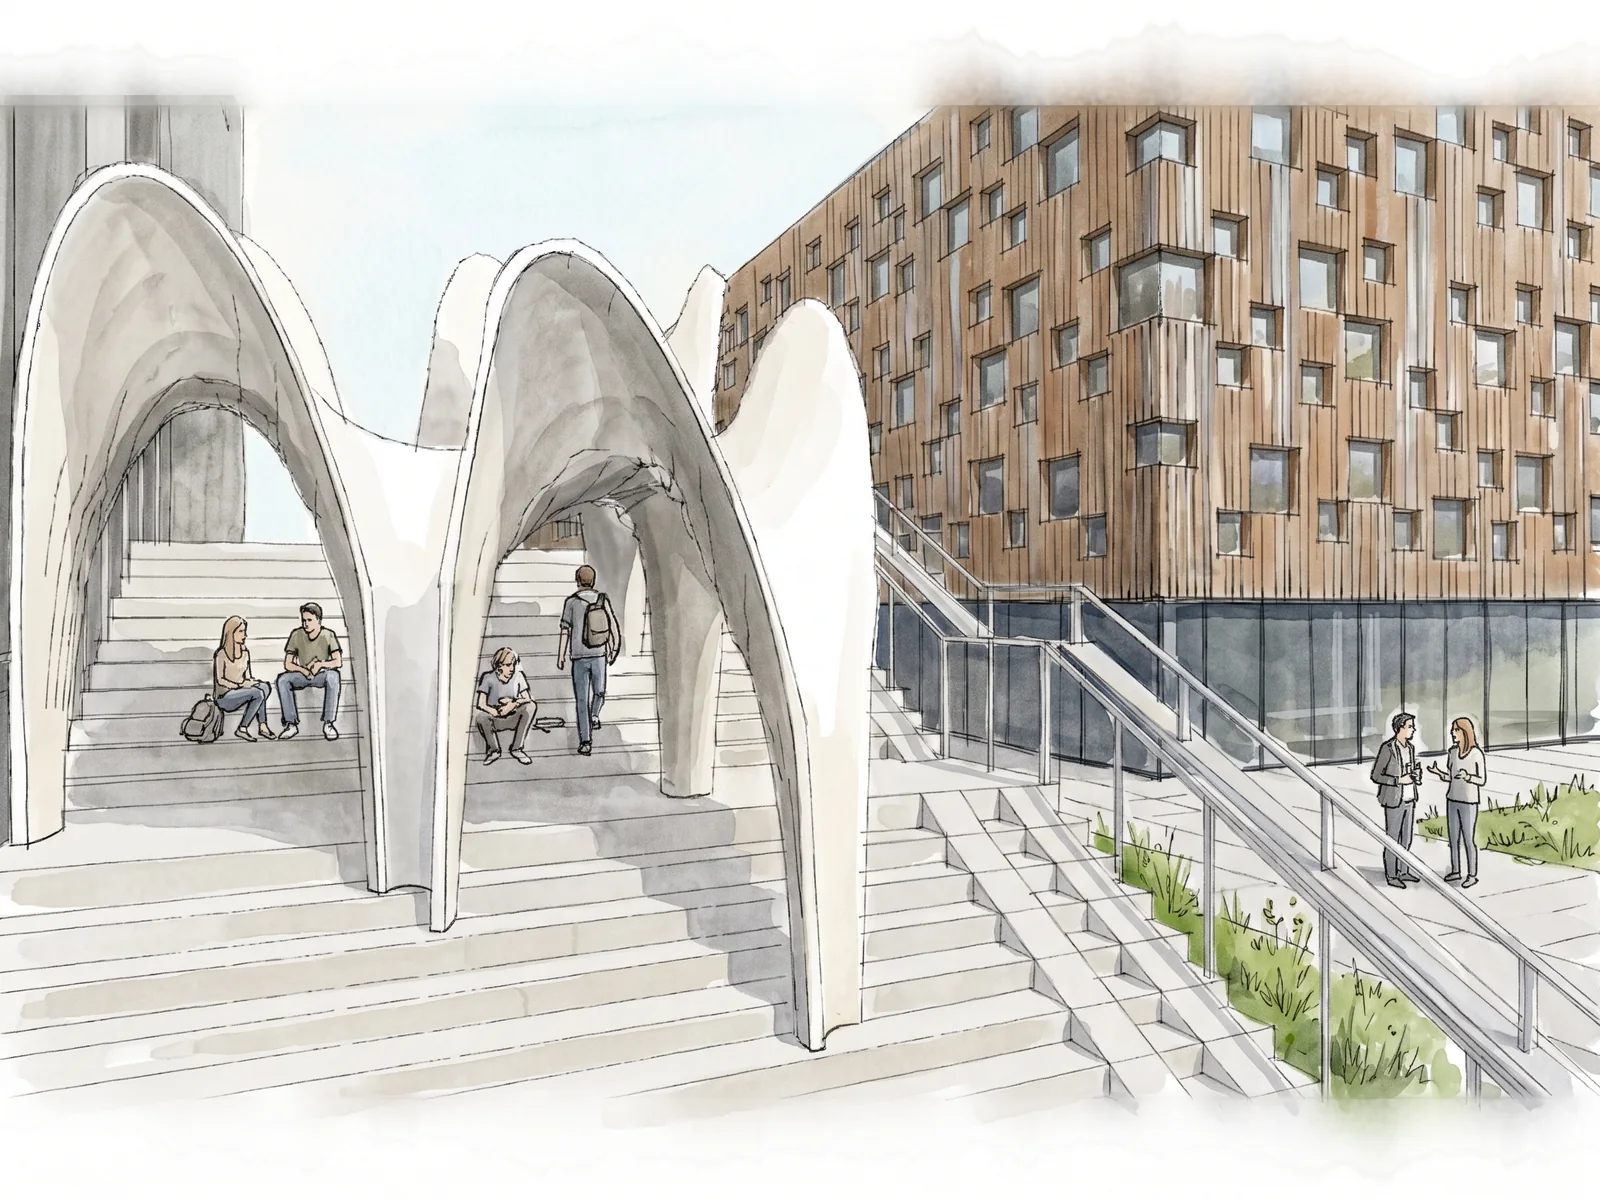
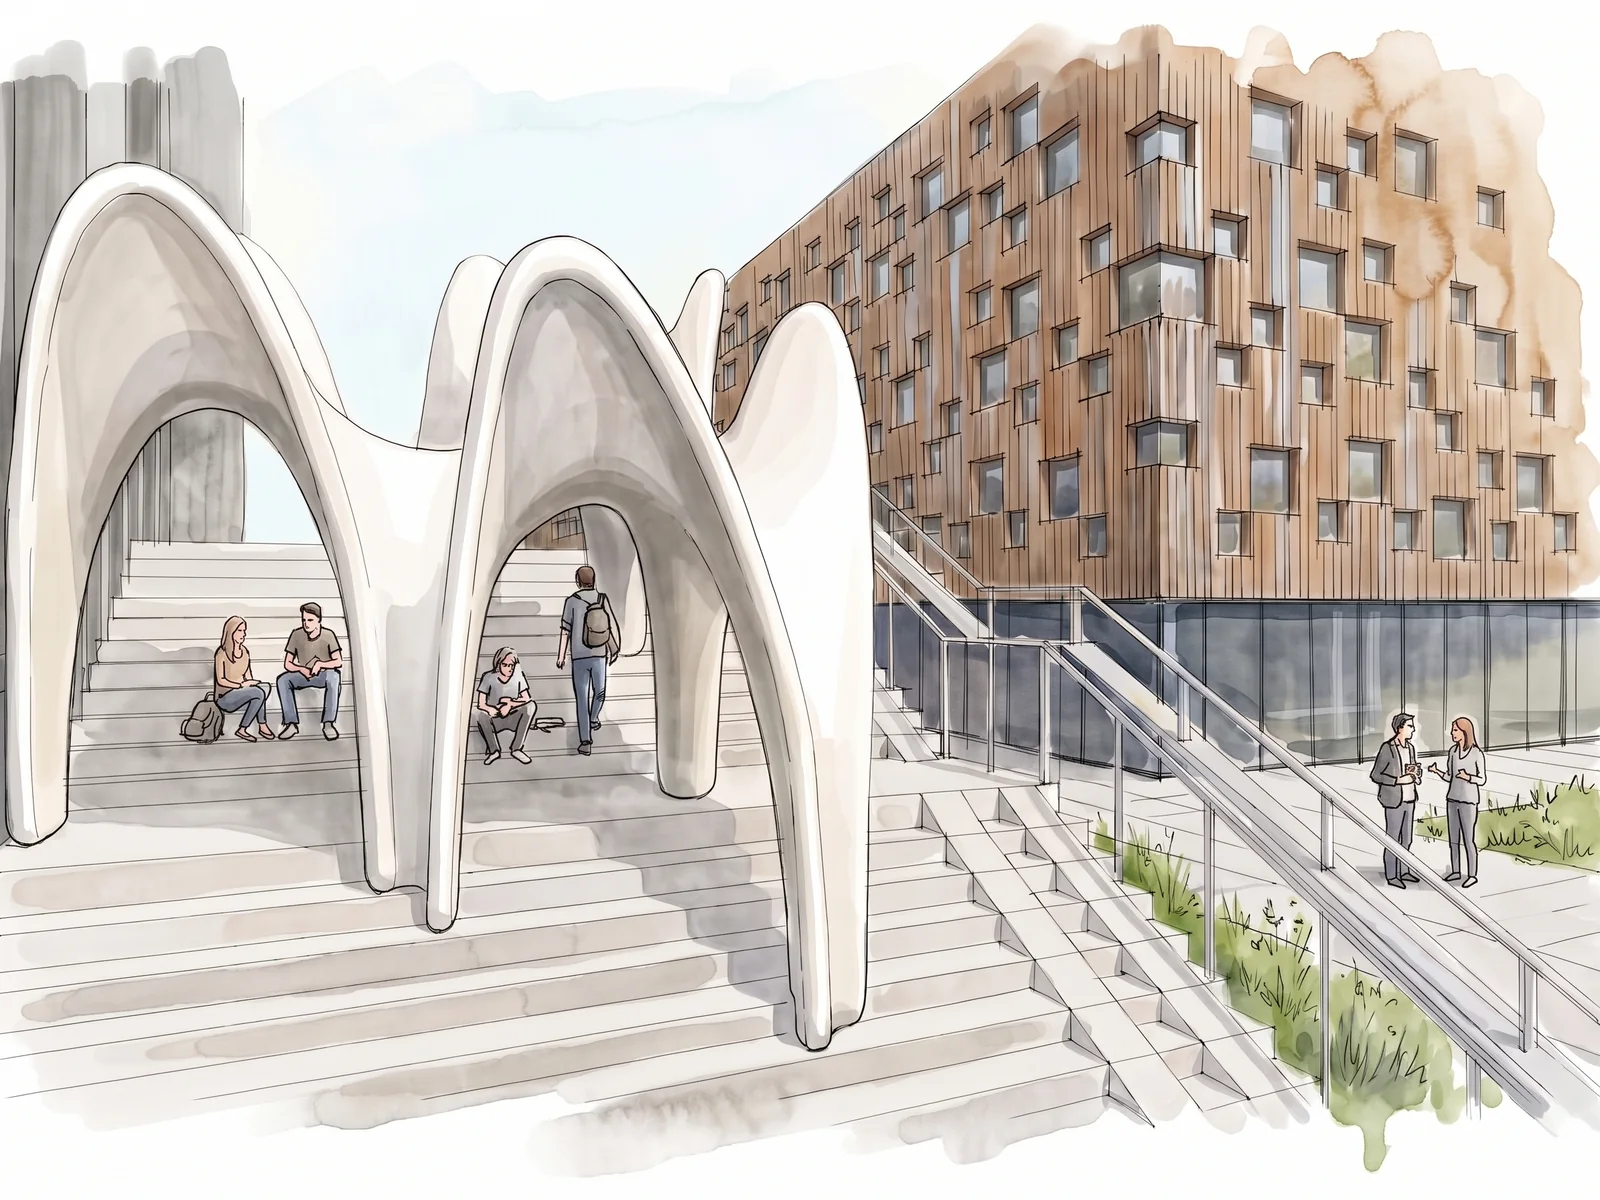
Update site 2026-10-16

diff --git a/index.html b/index.html
@@ -2,7 +2,7 @@
 <html lang="en">
 <head>
 <meta charset="utf-8">
-<meta http-equiv="Content-Security-Policy" content="default-src 'self'; script-src 'self' 'sha256-2aXUAyr4y5HwhHmZkiL9GxlWPjC31j/WITiZgkK8rwM=' 'sha256-Pou2OAmGK2C6S8TLm9mEenH+t3b9fo090o6+uJaSkNo=' 'sha256-GBSNzbRYvDDGp3pbfBfW1qwvGaLkI736pXIuO3c3vkY=' 'sha256-B4t6aRlbgu3dQSOQGWI0kxQ//U4EZNFfQPOMWpBJG6s='; style-src 'self' 'unsafe-inline'; font-src 'self'; img-src 'self' data: blob:; media-src 'self' blob:; connect-src 'self'; worker-src 'self' blob:; object-src 'none'; base-uri 'self'; form-action 'none'">
+<meta http-equiv="Content-Security-Policy" content="default-src 'self'; script-src 'self' 'sha256-2aXUAyr4y5HwhHmZkiL9GxlWPjC31j/WITiZgkK8rwM=' 'sha256-Pou2OAmGK2C6S8TLm9mEenH+t3b9fo090o6+uJaSkNo=' 'sha256-GBSNzbRYvDDGp3pbfBfW1qwvGaLkI736pXIuO3c3vkY=' 'sha256-NNaZ10kfZP8NmyWoffDeNeCFm3PQgNY2SZGghrIATmk='; style-src 'self' 'unsafe-inline'; font-src 'self'; img-src 'self' data: blob:; media-src 'self' blob:; connect-src 'self'; worker-src 'self' blob:; object-src 'none'; base-uri 'self'; form-action 'none'">
 <meta name="referrer" content="strict-origin-when-cross-origin">
 <meta name="viewport" content="width=device-width, initial-scale=1, viewport-fit=cover">
 <title>Raffaele Errichiello</title>
@@ -1613,7 +1613,7 @@ html:not(.ed-on) [data-ed-off]{display:none!important}
       </div>
       <div class="th-m">
         <div class="th-h"><h4 class="th-t">Shells on the steps</h4><p class="th-d">November 2021 to January 2022</p><p>Ribbed shells set on a flight of outdoor steps, a stage by the river in Umeå. They were drawn over the stair in Rhino and 3D printed at small scale to test the ribs.</p></div>
-        <figure class="media r43 zoomable" data-zoom="assets/img/x/th-stage-ill.webp" data-cap="Shells on the steps, Archicad drawing of December 2021, coloured with AI."><img src="assets/img/x/th-stage-ill.webp" alt="Line and watercolour drawing of pale shells standing over a wide outdoor stair beside a brick building, students sitting on the steps under them" loading="lazy" decoding="async" width="1600" height="1200"></figure>
+        <figure class="media r43 zoomable" data-zoom="assets/img/x/th-stage-ill.webp" data-cap="Shells on the steps, Archicad drawing of December 2021, coloured and edited with AI."><img src="assets/img/x/th-stage-ill.webp" alt="Line and watercolour drawing of pale shells standing over a wide outdoor stair beside a brick building, students sitting on the steps under them" loading="lazy" decoding="async" width="1600" height="1200"></figure>
       </div>
       <div class="duo" style="grid-template-columns:.75fr 1.778fr">
         <figure class="cycle" data-cycle data-every="2800" aria-label="Black and white photographs and a clip of the printed model, from outside and from under the shells, changing every few seconds"><div class="tile r34"><img src="assets/img/x/th-bw.webp" alt="Black and white photograph of the ribbed shells on the stair model" loading="lazy" decoding="async" width="900" height="1200"><img src="assets/img/x/th-bw-in.webp" alt="" loading="lazy" decoding="async" width="900" height="1200"><img src="assets/img/x/th-bw-side.webp" alt="" loading="lazy" decoding="async" width="900" height="1200"><img src="assets/img/x/th-bw-col.webp" alt="" loading="lazy" decoding="async" width="900" height="1200"><img src="assets/img/x/th-bw-rib.webp" alt="" loading="lazy" decoding="async" width="900" height="1200"><video muted playsinline preload="none" data-hold="6700" data-poster="assets/video/th-bw-v.webp" aria-label="The camera moving low between the printed ribbed shells of the stair model, in black and white"><source src="assets/video/th-bw-v.mp4" type="video/mp4"></video></div></figure>
@@ -4828,7 +4828,7 @@ function t(t,e,i){return Math.max(t,Math.min(e,i))}var e=class{isRunning=!1;valu
   initPosters(); initVideos(); initScrub(); initLightbox(); initCopy(); initPeek(); initShelf();
 })();
 
-(function(){var B='24fc0e139091';function check(){try{fetch('version.txt?t='+Date.now(),{cache:'no-store'}).then(function(r){return r.ok?r.text():null}).then(function(v){v=v&&v.trim();if(!v||v===B)return;var k='reloaded-for';try{if(sessionStorage.getItem(k)===v)return;sessionStorage.setItem(k,v)}catch(e){}location.reload()}).catch(function(){})}catch(e){}}check();addEventListener('pageshow',function(e){if(e.persisted)check()});document.addEventListener('visibilitychange',function(){if(!document.hidden)check()})})();
+(function(){var B='983f83f71b29';function check(){try{fetch('version.txt?t='+Date.now(),{cache:'no-store'}).then(function(r){return r.ok?r.text():null}).then(function(v){v=v&&v.trim();if(!v||v===B)return;var k='reloaded-for';try{if(sessionStorage.getItem(k)===v)return;sessionStorage.setItem(k,v)}catch(e){}location.reload()}).catch(function(){})}catch(e){}}check();addEventListener('pageshow',function(e){if(e.persisted)check()});document.addEventListener('visibilitychange',function(){if(!document.hidden)check()})})();
 </script>
 </body>
 </html>
